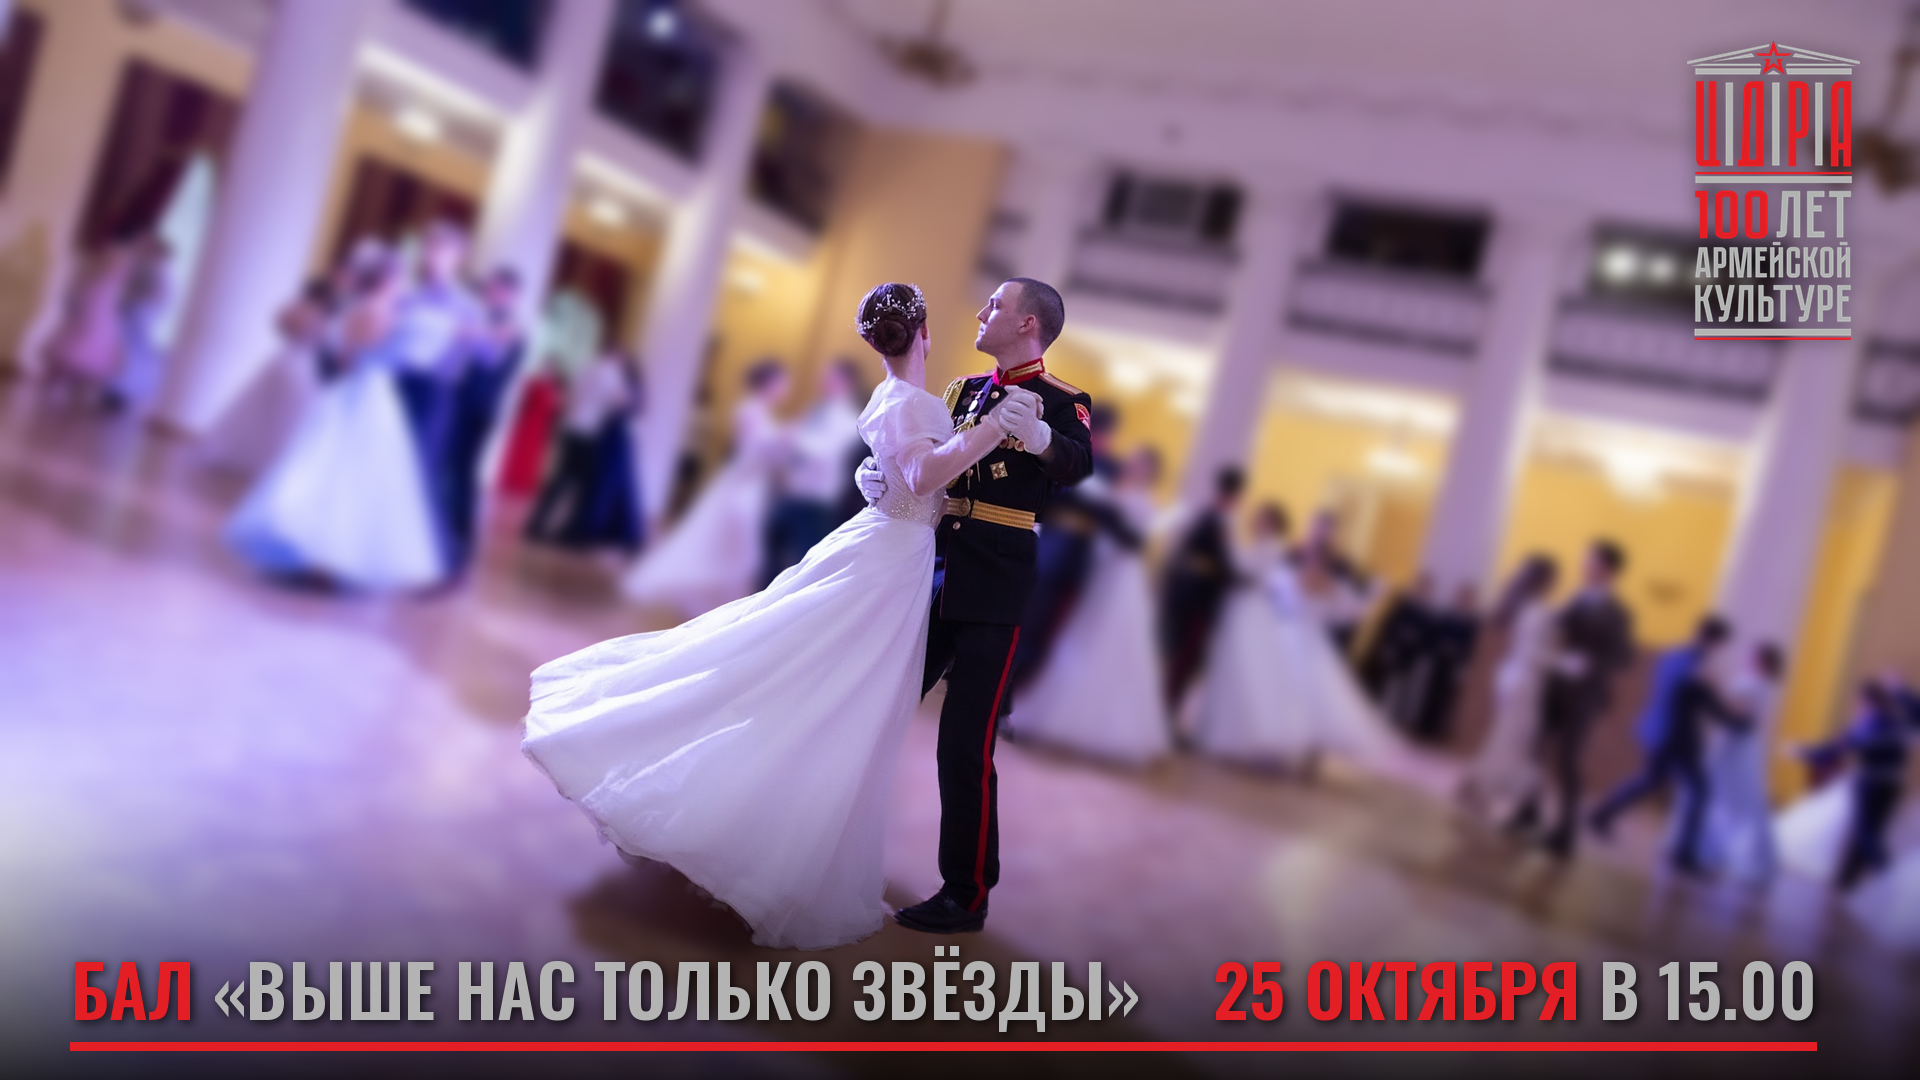
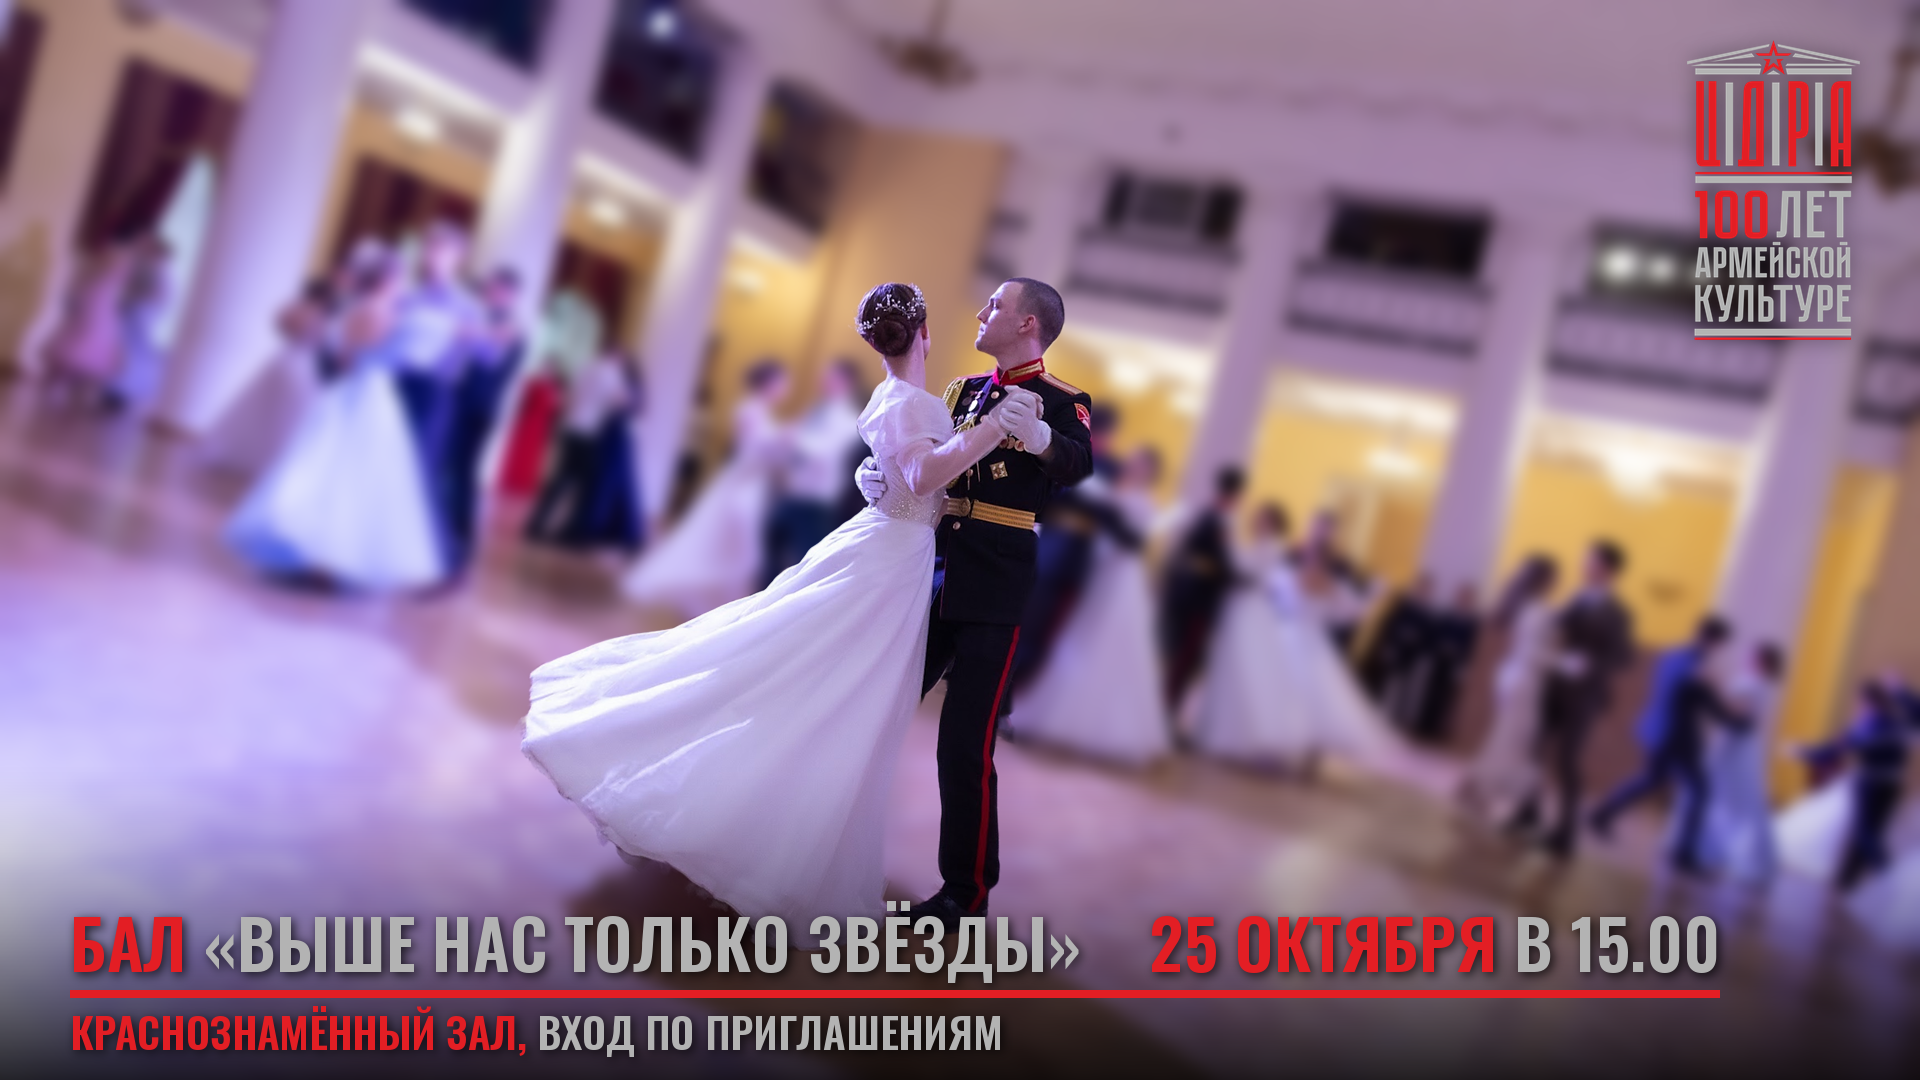
Афиша: строка «Краснознамённый зал, вход по приглашениям»
Claude-Session: https://claude.ai/code/session_01T1cTPKS4tv71B7wCkjdvMn

Changed region(s): [[0.0312, 0.825, 0.9688, 0.9778]]

diff --git a/afisha/make_poster.py b/afisha/make_poster.py
@@ -152,23 +152,30 @@ def emblem(img):
 
 
 def text(img):
-    font = ImageFont.truetype(str(HERE / "Oswald-600.ttf"), 72)
-    parts = [("БАЛ ", RED), ("«ВЫШЕ НАС ТОЛЬКО ЗВЁЗДЫ»", GRAY),
-             ("    25 ОКТЯБРЯ ", RED), ("В 15.00", GRAY)]
-    x0, base = 70, 1020
+    big = ImageFont.truetype(str(HERE / "Oswald-600.ttf"), 68)
+    small = ImageFont.truetype(str(HERE / "Oswald-600.ttf"), 42)
+    lines = [
+        (big, 972, [("БАЛ ", RED), ("«ВЫШЕ НАС ТОЛЬКО ЗВЁЗДЫ»", GRAY),
+                    ("    25 ОКТЯБРЯ ", RED), ("В 15.00", GRAY)]),
+        (small, 1050, [("КРАСНОЗНАМЁННЫЙ ЗАЛ, ", RED), ("ВХОД ПО ПРИГЛАШЕНИЯМ", GRAY)]),
+    ]
+    x0 = 70
     layer = Image.new("RGBA", img.size, (0, 0, 0, 0))
     shadow = Image.new("RGBA", img.size, (0, 0, 0, 0))
     d, ds = ImageDraw.Draw(layer), ImageDraw.Draw(shadow)
-    x = x0
-    for s, c in parts:
-        ds.text((x + 3, base + 3), s, font=font, fill=(0, 0, 0, 200), anchor="ls")
-        d.text((x, base), s, font=font, fill=c, anchor="ls")
-        x += d.textlength(s, font=font)
+    ends = []
+    for font, base, parts in lines:
+        x = x0
+        for s, c in parts:
+            ds.text((x + 3, base + 3), s, font=font, fill=(0, 0, 0, 200), anchor="ls")
+            d.text((x, base), s, font=font, fill=c, anchor="ls")
+            x += d.textlength(s, font=font)
+        ends.append(x)
     shadow = shadow.filter(ImageFilter.GaussianBlur(5))
     out = Image.alpha_composite(img, shadow)
     out = Image.alpha_composite(out, layer)
-    # красная линия как на эмблеме
-    ImageDraw.Draw(out).rectangle([x0, base + 22, x, base + 30], fill=RED)
+    # красная линия между строками, как на эмблеме
+    ImageDraw.Draw(out).rectangle([x0, 990, ends[0], 997], fill=RED)
     return out
 
 
